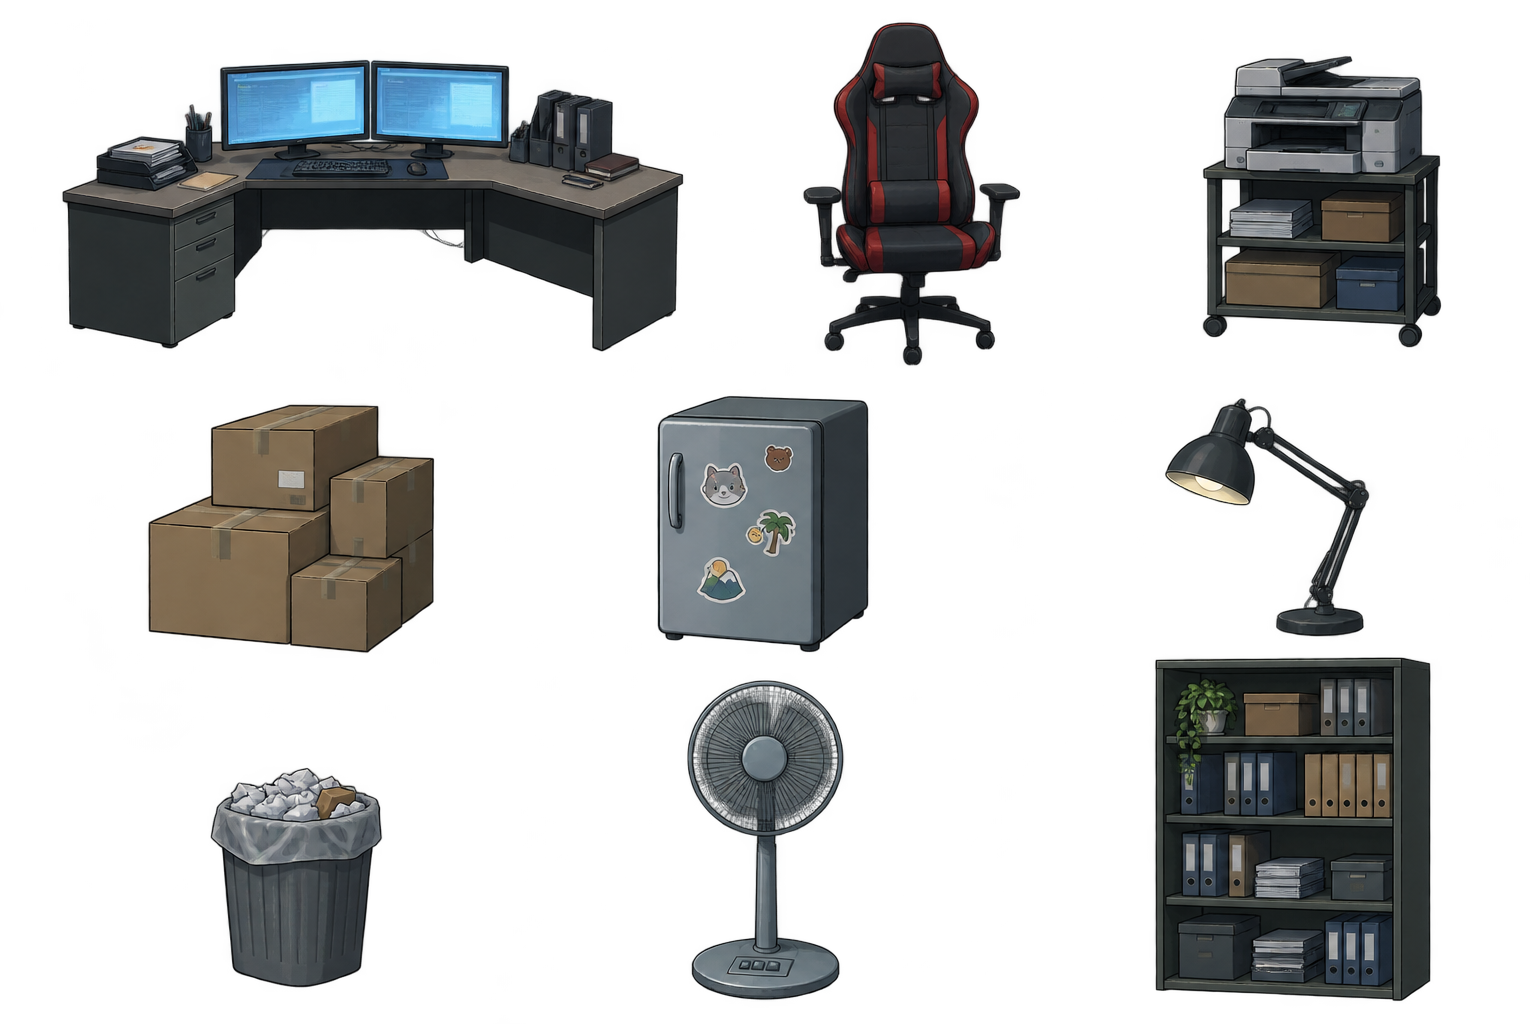
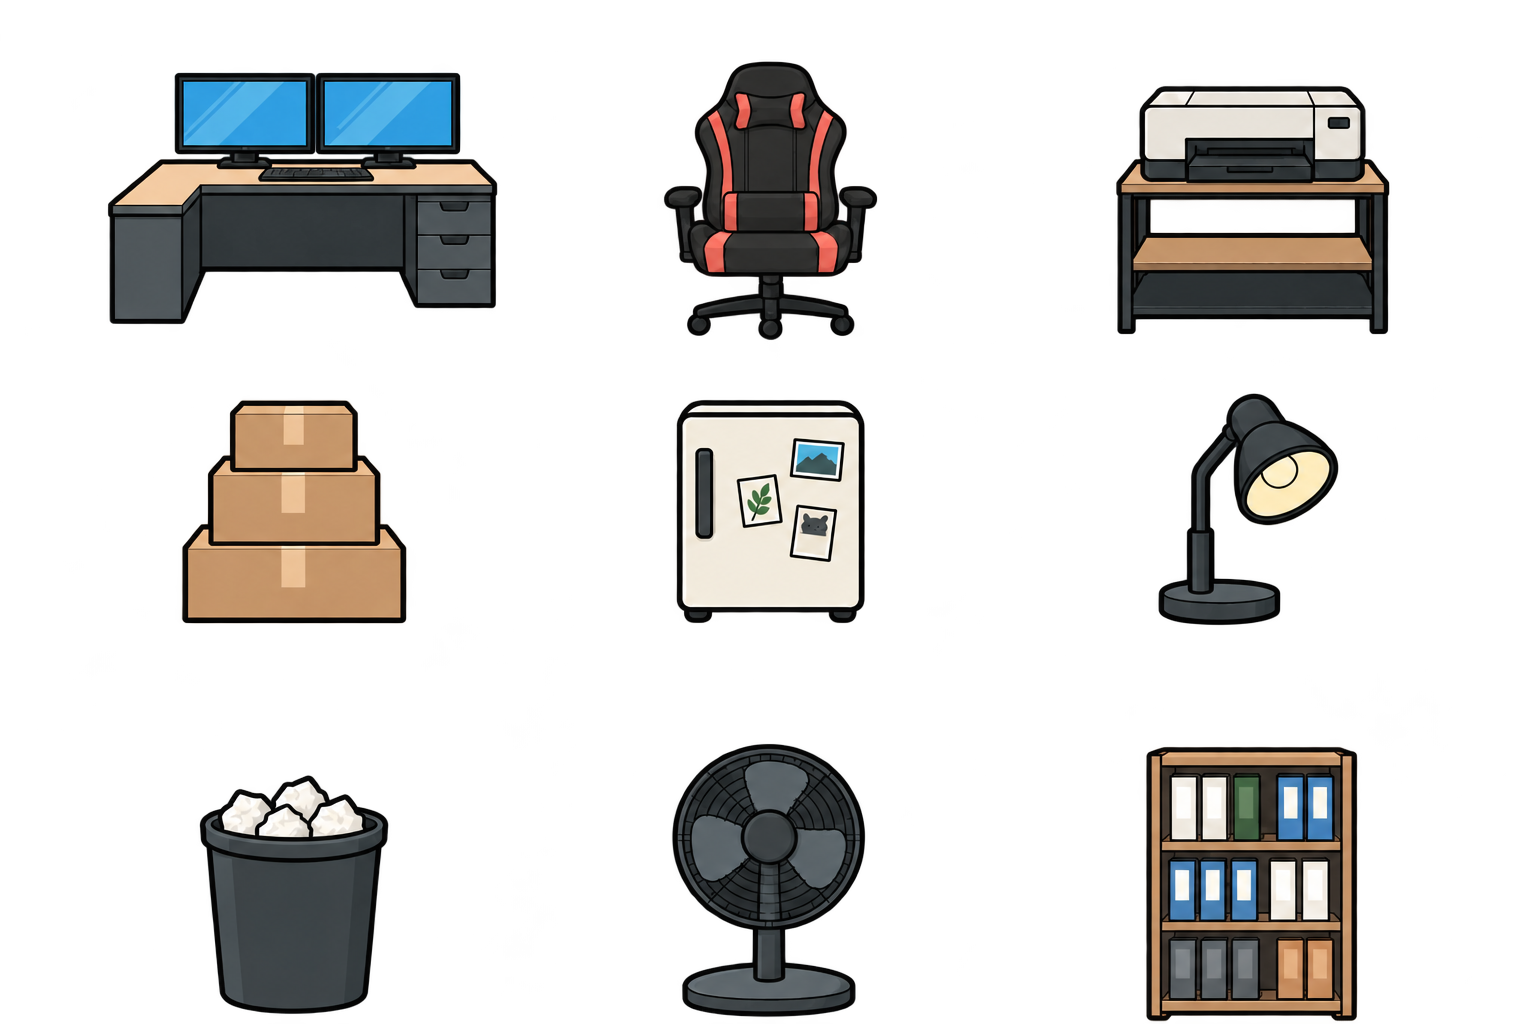
Redraw Jaemtri object sheet with frontal views

diff --git a/game-src/art/bg/raw/README.md b/game-src/art/bg/raw/README.md
@@ -4,7 +4,8 @@
 - 총 75 PNG: 벽 50, 바닥 10, 원경 5, 물건 시트 10.
 - 내장 image_gen으로 개별 생성. PixelLab 미사용. 도트화 전 원본이며 게임 HTML에는 아직 반영하지 않음.
 - 벽/가로 원경/물건: 1536×1024. 바닥: 1024×1024. `service_far_tall`: 1024×1536.
-- 물건 시트는 실제 PNG alpha를 포함함. 2026-10-22 사용자 정정 이후 시트는 정면 평행 구도, 얇게 보이는 윗면, 칸별 크기 우선. 이전 본부 물건 4장은 최초 요청 기준 유지.
+- 물건 시트는 실제 PNG alpha를 포함함. 2026-10-22 사용자 정정 이후 시트는 정면 평행 구도, 얇게 보이는 윗면, 칸별 크기 우선. 이전 본부 물건 중 사무실·정비실·탕비실 3장은 최초 요청 기준 유지.
+- 2026-10-22 검수 재작업: `hq_jaemtri/hq_jaemtri_objects.png`를 같은 9개 물건의 정면 구도로 새로 생성해 교체. 1536×1024 RGBA, 3×3 배치, 큰 형태·굵은 윤곽선·평면 채색. 책상·상자·냉장고·프린터 받침대의 비스듬한 시점을 수정함. 생성 요청문은 `hq_jaemtri/redraw-20261022.json`. 도트화 및 게임 통합은 후속 작업이며 사용자 최종 시각 승인을 뜻하지 않음.
 - 엘리베이터 홀/로비/추격 물건 시트는 정면 구도 및 구성 누락을 수정해 교체함.
 - 도트화, 장소별 팔레트, 이음새/원근 보정, 물건 분리와 기준점, 게임 통합은 요청서에 따라 Claude 후속 작업. 타일 경계의 픽셀 일치나 게임 통합 완료를 뜻하지 않음.
 - 생성 규격/프롬프트: `production-manifest.json`. 파일 크기/해시/alpha 검사: `validation.json`.
